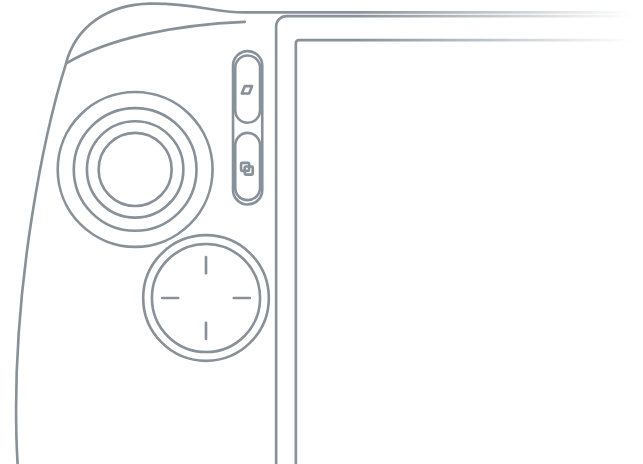
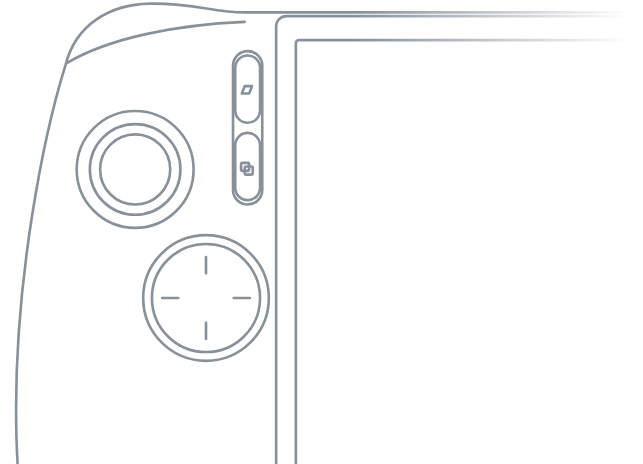
fix(acer): keep the Atlas stick rings clear of the A button and bezel

Changed region(s): [[0.0622, 0.181, 0.3421, 0.5431]]

diff --git a/src/LibHandheld/Families/Acer/glyphs/PROVENANCE.md b/src/LibHandheld/Families/Acer/glyphs/PROVENANCE.md
@@ -26,7 +26,7 @@ canonical left paddle (`RearM1`, L4); the right rear button is printed M1 (`Rear
 
 `controller-full-atlas-8.svg` is original line art traced on 2026-10-28 over the maintainer's front
 reference photograph (2000 x 905 px), whose pixel grid is the SVG's viewBox: body and bumpers,
-display bezel, stick bases, D-pad ticks, the two front button slots with their prints, face buttons
+display bezel, stick rings, D-pad ticks, the two front button slots with their prints, face buttons
 and speaker grilles. `research/atlas-controller-art.mjs` generates it. The 643 x 464 PNG halves
 `controller-left-atlas-8.png` and `controller-right-atlas-8.png` are the same art rendered over the
 photo's x 0-880 and x 1120-2000 columns, top 635 px, faded toward the display as the ROG Ally and
